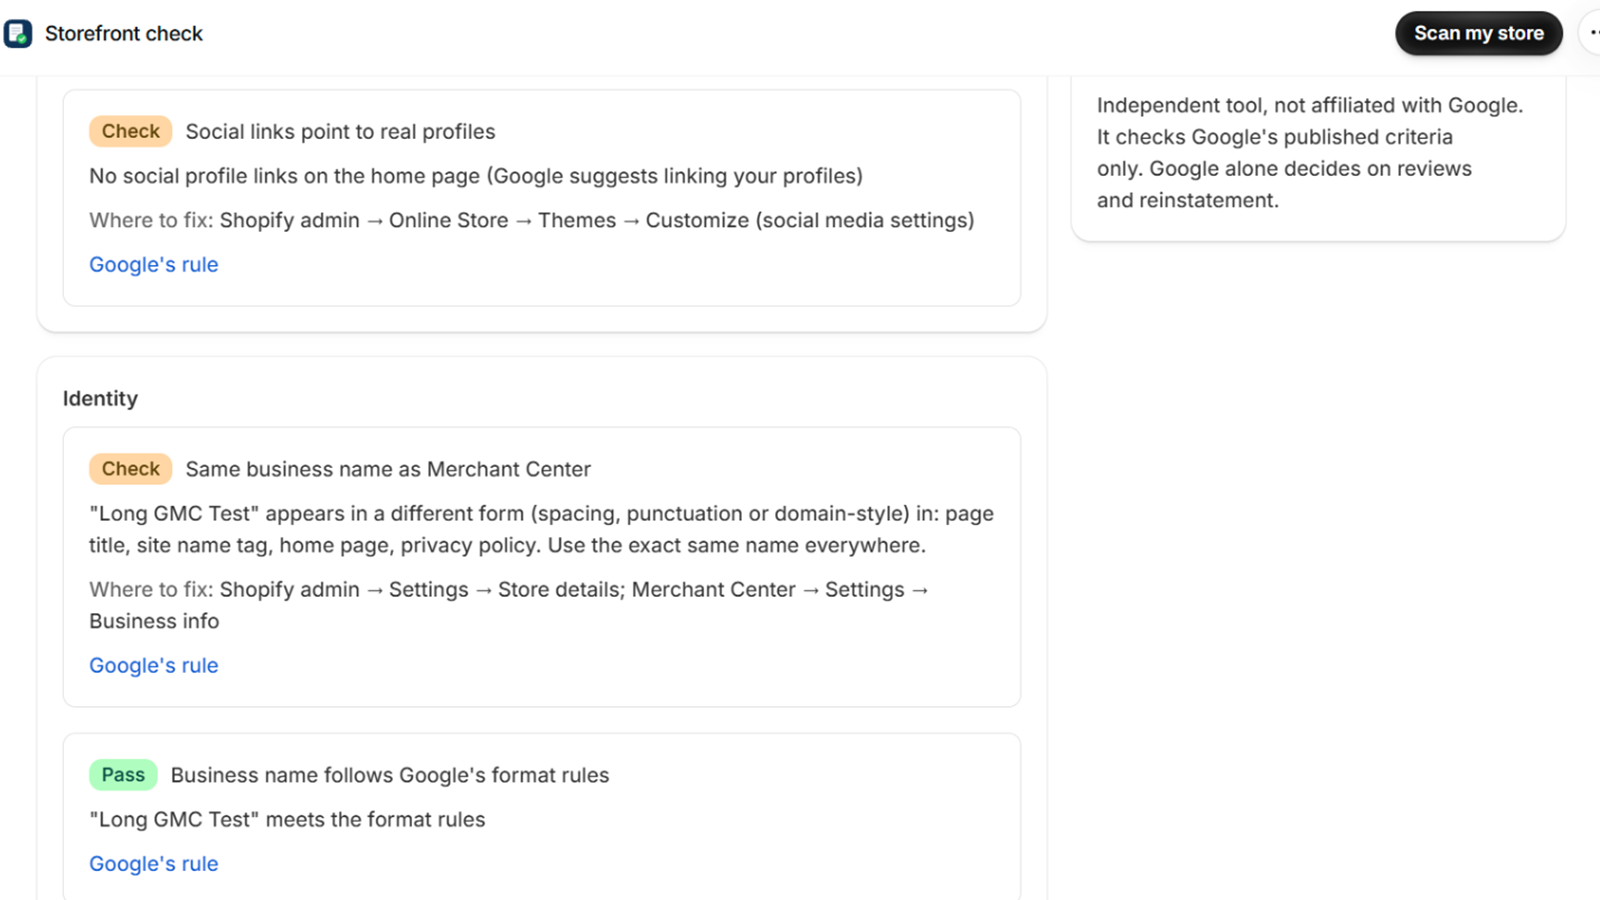
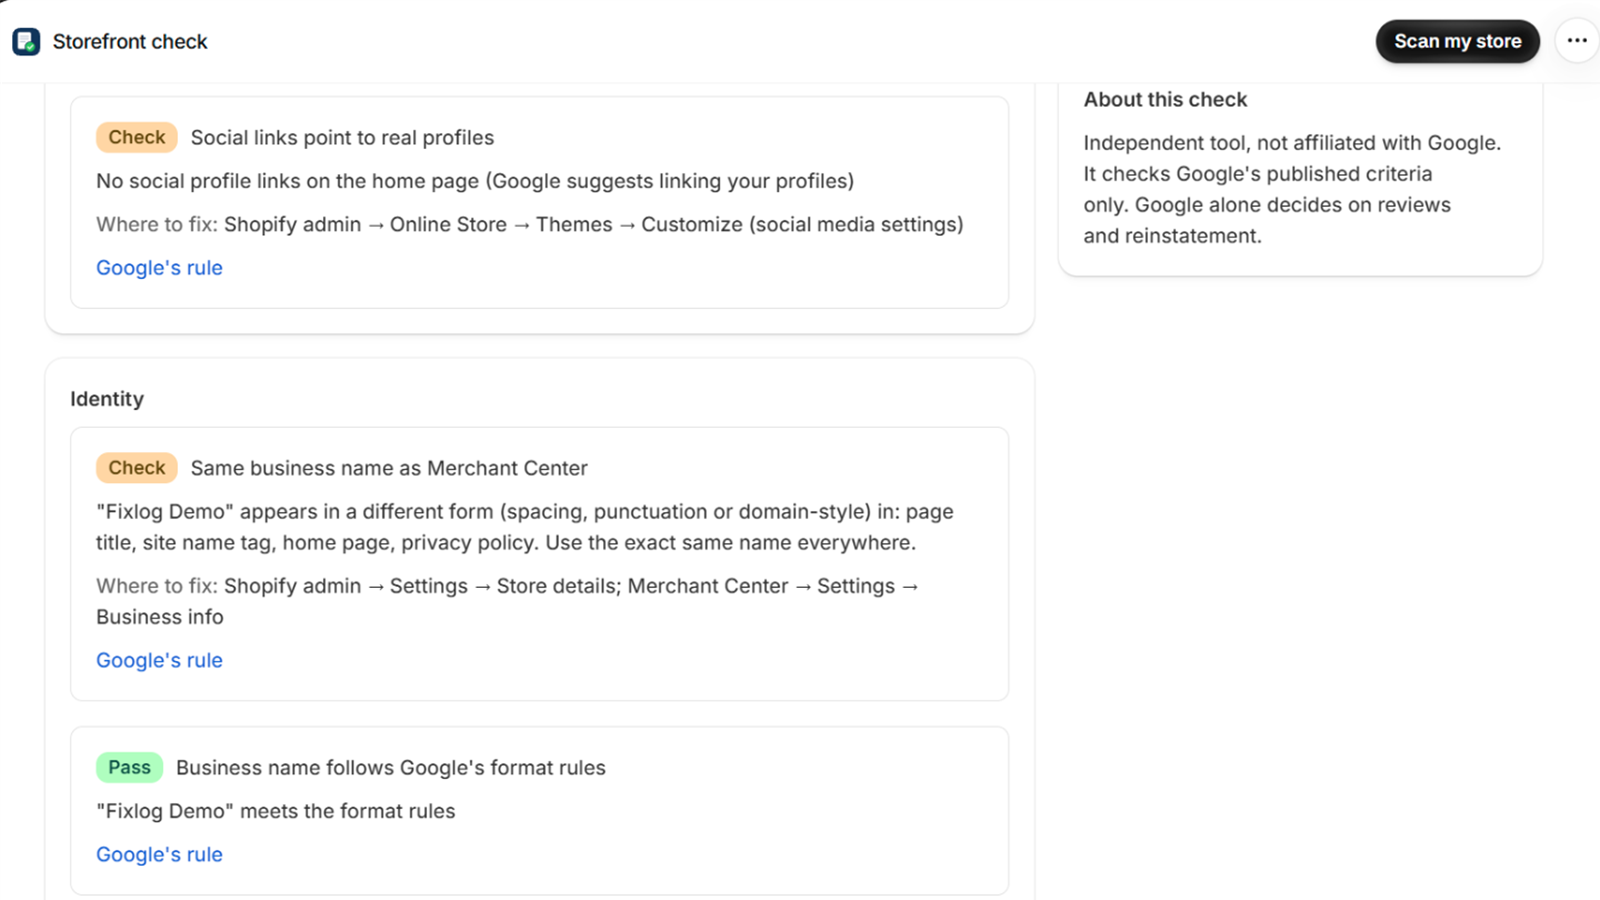
Retake listing screenshots on the fixlog-demo store
All five 1600x900 shots and the feature image now come from fixlog-demo, so the long-gmc-test store name, URL and support email no longer appear. Shot 4 is the attempt 2 snapshot and shot 5 is review kit #2. Alt text and the listing notes match the new shots.

diff --git a/docs/listing-draft.md b/docs/listing-draft.md
@@ -44,13 +44,14 @@ merchant center suspended · misrepresentation · website needs improvement · g
 - In the Partner Dashboard pricing form, list both. The app code is in `gmc-app/app/lib/pass.ts` (limits) and `app/routes/app.pass.tsx` (purchase page).
 
 ## Screenshots (3–6, 1600×900, no PII, no prices, no outcome promises)
-Files in `docs/listing/screenshots/` (taken 2026-11-21 on long-gmc-test, Fixlog app; cropped with `docs/listing/crop-screenshot.ps1`):
-1. `1-findings-site-identity.png`: Site and Identity findings (Check / Pass), Pass active so no price in the side panel.
-2. `2-policy-findings.png`: findings with evidence, "Where to fix" and "Google's rule".
-3. `3-merchant-center-info.png`: Merchant Center info form (made-up test data).
-4. `4-pre-review-snapshot.png`: "Changes made since …" list after adding an About page.
-5. `5-review-kit.png`: review request kit with Copy / Download .txt.
-Avoid the "Support email uses your store's domain" finding: on long-gmc-test it shows Long's personal Gmail.
+Files in `docs/listing/screenshots/` (retaken 2026-11-23 on the fixlog-demo store, Fixlog app, so no "Long GMC Test" name or long-gmc-test URL appears; cropped with `docs/listing/crop-screenshot.ps1`):
+1. `1-findings-site-identity.png`: "Social links" and Identity findings (Check / Pass) with the "About this check" side panel (no price shown).
+2. `2-policy-findings.png`: Policies findings (Fix / Check) with evidence, "Where to fix" and "Google's rule".
+3. `3-merchant-center-info.png`: Merchant Center info form filled with made-up test data (Fixlog Demo, +1 555 010 0199, support@example.com, 100 Test Street).
+4. `4-pre-review-snapshot.png`: snapshot for attempt 2: "Changes made since Nov 23, 2026" (contact details now match Merchant Center, after the demo Contact page was edited) plus the still-flagged list.
+5. `5-review-kit.png`: review request kit #2 with Copy / Download .txt and the record text.
+The feature image is drawn from screenshot 4, so re-run `make-feature-image.ps1` whenever shot 4 changes.
+Never take shots on long-gmc-test: its "Support email uses your store's domain" finding shows Long's personal Gmail.
 
 ## Never write (anywhere: listing, app, ads, forum)
 "get reinstated", "fix your suspension", "approval chance", "readiness score", "guaranteed", "Google-approved", "official".

diff --git a/docs/reviewer-instructions.md b/docs/reviewer-instructions.md
@@ -27,7 +27,7 @@ Moved to `docs/submission-guide.md`, part C (11 shots with English narration, re
 - [x] Public distribution chosen on the Fixlog app (Long, 2026-11-21)
 - [ ] Emergency developer contact set (email + phone): Dev Dashboard → Organization settings → Organization (Long)
 - [ ] Screencast recorded on a fresh dev store and its link pasted into the form (Long; `docs/submission-guide.md` part C)
-- [x] App card subtitle and feature image ready (`docs/listing-draft.md`, `docs/listing/feature-image.png`, 2026-11-21)
-- [x] 3–6 screenshots, 1600×900, of the Fixlog app (not the dev app, whose admin title is "Long Nguyen"): 5 done in `docs/listing/screenshots/` (2026-11-21)
+- [x] App card subtitle and feature image ready (`docs/listing-draft.md`, `docs/listing/feature-image.png`, redrawn 2026-11-23)
+- [x] 3–6 screenshots, 1600×900, of the Fixlog app (not the dev app, whose admin title is "Long Nguyen"): 5 done in `docs/listing/screenshots/` (retaken on fixlog-demo 2026-11-23)
 - [ ] Shopify "AI self-review" run on the submission page, issues fixed
 - [ ] Listing text checked against the "Never write" list in `docs/listing-draft.md`

diff --git a/docs/submission-guide.md b/docs/submission-guide.md
@@ -91,10 +91,10 @@ Mở: Dev Dashboard → Apps → **Fixlog** → trang **App Store review / Distr
 | App submission contact email | `fixlog.support@proton.me`. Shopify gửi mọi email về đợt review vào địa chỉ này; để thẳng hộp thư Proton cho chắc, không qua forwarding. |
 
 **Alt text cho 5 screenshot:**
-1. `Storefront check results for site and identity, each marked Check or Pass`
+1. `Storefront check results for social links and business identity, each marked Check or Pass`
 2. `Policy findings with the evidence found, where to fix it in Shopify, and Google's rule`
 3. `Form for the business name, phone, email and address used in Merchant Center`
-4. `Pre-review snapshot listing the changes made since the first scan`
+4. `Pre-review snapshot listing what changed since an earlier scan and what is still flagged`
 5. `Review request kit with buttons to copy it or download it as a text file`
 
 **Proton:** để không lỡ email review, vào Proton → **Settings → Filters → Spam, block, and allow lists** → thêm `noreply@shopify.com` vào **Allow list**.
